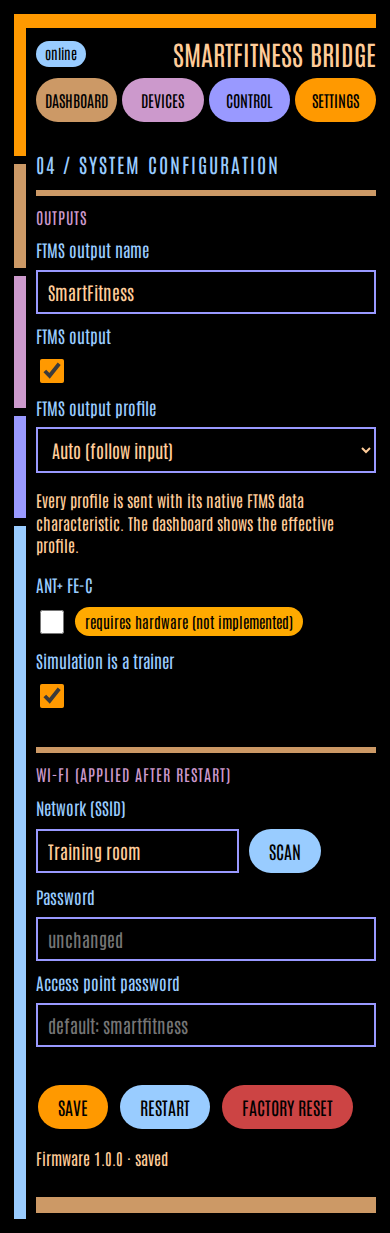
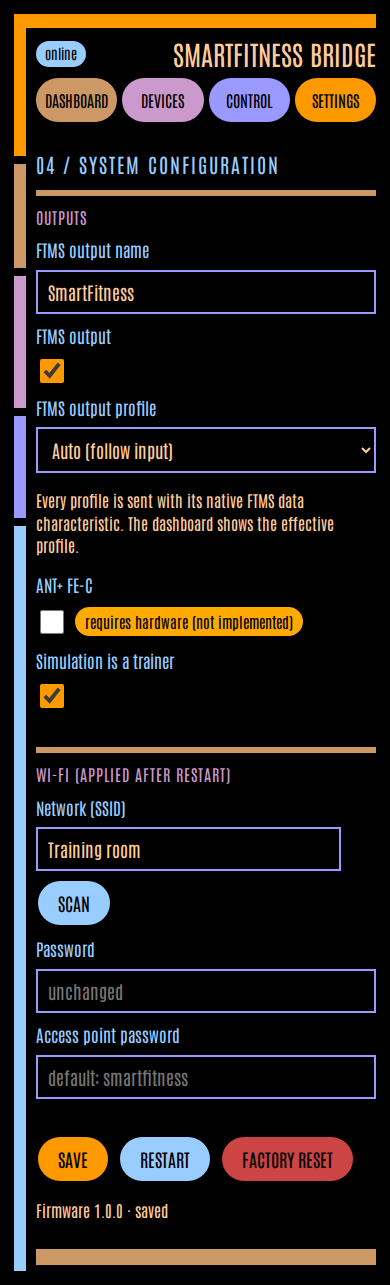
Web Wi-Fi scan list: signal pictogram only, 50% wider SSID field

diff --git a/src/variants/web/assets/index.html b/src/variants/web/assets/index.html
@@ -32,7 +32,7 @@ table{width:100%;border-collapse:collapse;table-layout:fixed}td,th{padding:10px 
 td select{width:100%;font-size:16px}td button.b{padding:8px 14px}
 .row{display:flex;gap:10px;align-items:center;flex-wrap:wrap;margin:10px 0}.row label{min-width:180px;color:var(--light)}
 #toast{position:fixed;bottom:20px;left:50%;transform:translateX(-50%);background:var(--tan);color:#000;padding:12px 24px;border-radius:24px;display:none;max-width:90%;z-index:2}
-.combo{position:relative;max-width:100%;min-width:0}.combo input{width:100%}
+.combo{position:relative;width:305px;max-width:100%;min-width:0}.combo input{width:100%}
 #wifi-list{position:absolute;left:0;right:0;top:100%;z-index:3;margin:0;padding:0;list-style:none;background:#000;border:2px solid var(--acc);border-top:0;max-height:264px;overflow-y:auto}
 #wifi-list li{display:flex;align-items:center;gap:10px;padding:8px 10px;cursor:pointer;overflow-wrap:anywhere}#wifi-list li .ssid{flex:1;min-width:0}#wifi-list li .small{flex-shrink:0;color:var(--light)}
 .bars{display:inline-flex;align-items:flex-end;gap:2px;width:22px;height:16px;flex-shrink:0;color:var(--light)}.bars i{width:4px;border-radius:1px;background:currentColor;opacity:.3}.bars i.on{opacity:1}.bars i:nth-child(1){height:4px}.bars i:nth-child(2){height:8px}.bars i:nth-child(3){height:12px}.bars i:nth-child(4){height:16px}
@@ -185,7 +185,8 @@ function signalLevel(rssi){return rssi>=-60?4:rssi>=-70?3:rssi>=-80?2:1}
 function bars(rssi){const b=el("span",null,"bars"),level=signalLevel(rssi);b.setAttribute("aria-hidden","true");b.dataset.level=level;
  for(let k=0;k<4;k++)b.append(el("i",null,k<level?"on":""));return b}
 function renderWifi(nets){wifiNets=nets;fill(wifiList,nets.map((n,i)=>{const li=el("li");li.id="wifi-opt-"+i;li.setAttribute("role","option");li.setAttribute("aria-selected","false");
- li.append(bars(n.rssi),el("span",n.ssid,"ssid"),el("span",n.rssi+" dBm · "+(n.secure?"secured":"open"),"small"));li.onmousedown=e=>e.preventDefault();li.onclick=()=>wifiPick(n);return li}))}
+ const sec=n.secure?"secured":"open";li.setAttribute("aria-label",n.ssid+", signal "+signalLevel(n.rssi)+" of 4, "+sec);
+ li.append(bars(n.rssi),el("span",n.ssid,"ssid"),el("span",sec,"small"));li.onmousedown=e=>e.preventDefault();li.onclick=()=>wifiPick(n);return li}))}
 ssid.onkeydown=e=>{const items=wifiList.children,i=[...items].findIndex(li=>li.getAttribute("aria-selected")==="true");
  if(e.key==="ArrowDown"||e.key==="ArrowUp"){if(!wifiNets.length)return;e.preventDefault();if(wifiList.hidden){wifiOpen(true);wifiMark(e.key==="ArrowDown"?0:items.length-1);return}
   wifiMark(e.key==="ArrowDown"?(i+1)%items.length:(i<=0?items.length:i)-1)}

diff --git a/scripts/web_screenshots.py b/scripts/web_screenshots.py
@@ -336,7 +336,13 @@ def render(browser, output, name, width, height):
     assert wifi_scans == [{}], wifi_scans
     expect(ssid).to_have_attribute("aria-expanded", "true")
     expect(wifi_list.get_by_role("option")).to_have_count(2)
-    expect(wifi_list.get_by_role("option").first).to_contain_text("-45 dBm · secured")
+    expect(wifi_list.get_by_role("option").first).to_have_text("Training roomsecured")
+    expect(wifi_list.get_by_role("option").first).to_have_attribute(
+        "aria-label", "Training room, signal 4 of 4, secured")
+    expect(wifi_list).not_to_contain_text("dBm")
+    # SSID field is 1.5x its former intrinsic width (203px -> 305px), capped on narrow screens.
+    ssid_width = ssid.evaluate("i => [i.offsetWidth, Math.min(305, i.closest('.row').clientWidth)]")
+    assert ssid_width[0] == ssid_width[1], ssid_width
     # Signal pictogram: same thresholds as hmi::signalLevel (-45 dBm -> 4, -71 dBm -> 2).
     assert wifi_list.locator(".bars").evaluate_all(
         "bars => bars.map(b => [b.dataset.level, b.querySelectorAll('i.on').length, "
